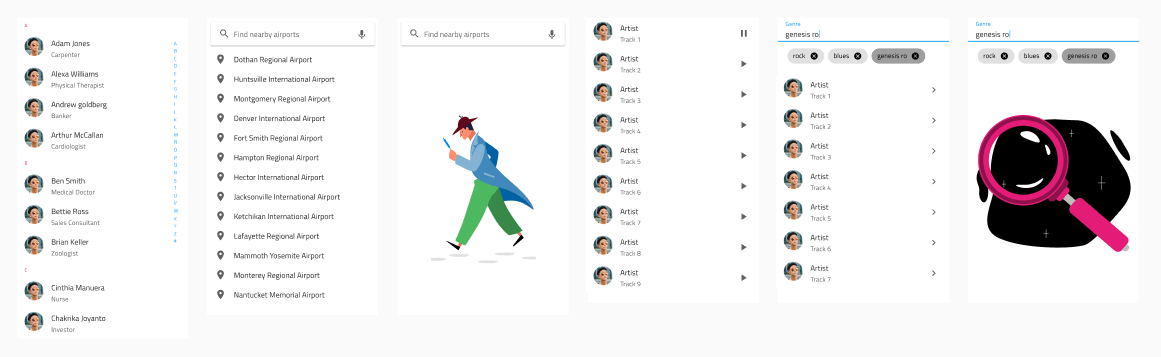
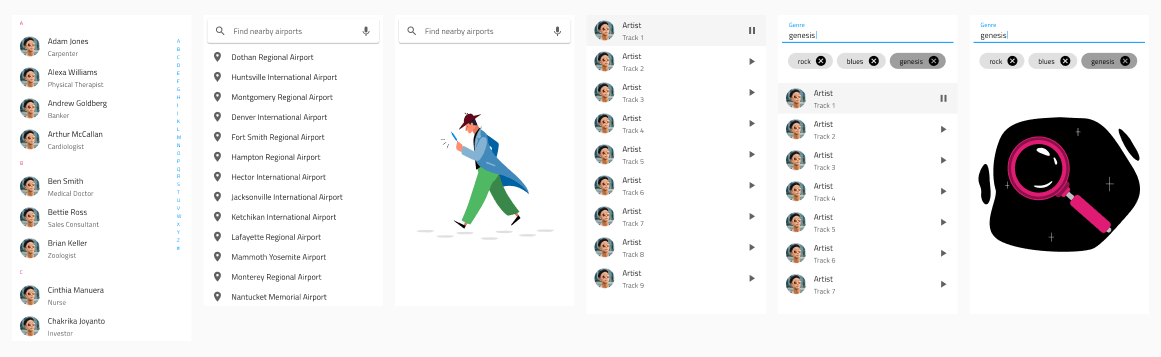
[35781] Patterns/Patterns Overview: Remove Sketch and Adobe XD reference and replace image

diff --git a/en/patterns/patterns-overview.md b/en/patterns/patterns-overview.md
@@ -1,36 +1,15 @@
 ---
 title: Patterns Overview - Design System Patterns
 _description: The Indigo Design System contains 180 Patterns built with the Indigo.Design Components.
-_keywords: Design Systems, Design Systems UX, UI kit, Sketch, Ignite UI for Angular, Sketch to Angular, Sketch to Angular, Angular, Angular Design System, Export code from Sketch, Design Kits for Angular, Sketch HTML, Sketch to HTML, Sketch UI kits, Figma, Figma to Angular, Export code from Figma, Figma HTML, Figma to HTML, Figma UI kits
+_keywords: Design Systems, Design Systems UX, UI kit, Ignite UI for Angular, Angular, Angular Design System, Design Kits for Angular, Figma, Figma to Angular, Export code from Figma, Figma HTML, Figma to HTML, Figma UI kits
 ---
 
 # Patterns Overview
 
-The **Indigo.Design System** boosts your productivity with 180+ UI Patterns assembled from Indigo.Design Components. They are enhanced with the same responsive web design behavior and theming capabilities. The UI Patterns can be found spread across separate pages of the library in Figma and Sketch, while in Adobe XD they are arranged as a column at the right end of the library file:
-
-- 🌆 AV Player
-- 🌆 Avatar + Badge
-- 🌆 Cards
-- 🌆 Chat
-- 🌆 Data Visualizations
-- 🌆 Details
-- 🌆 Dialogs
-- 🌆 Empty States
-- 🌆 File Upload and Image Manipulation
-- 🌆 Footer
-- 🌆 Form
-- 🌆 Grids
-- 🌆 Lists
-- 🌆 Menus
-- 🌆 Onboarding
-- 🌆 Pricing Table
-- 🌆 Scheduling
-- 🌆 Social Feed
-- 🌆 Tiles
-- 🌆 User Profile
+The **Indigo.Design System** boosts your productivity with 180+ UI Patterns assembled from Indigo.Design Components. They are enhanced with the same responsive web design behavior and theming capabilities. The UI Patterns can be found spread across separate pages of the library in Figma.
 
 > [!WARNING]
-> Unlike a component, some patterns in the Figma and the Sketch libraries can be detached to show as a group, preserving the look and feel you have defined before that. However, in Adobe XD ungrouping a pattern has devastating implications on the ability to generate code from the resulting layout as it turns all nested components into groups and prevents us from tracing their structure correctly. You can make any state, layout, and styling adjustment in Adobe XD without ungrouping a pattern so we kindly advise you to keep the entirety of these patterns on your artboards. Also bear in mind that in Figma, Sketch and Adobe XD, unlinking a pattern from the library makes it impossible to apply updates from subsequent versions of the Design System automatically.
+>  Bear in mind that in Figma, unlinking a pattern from the library makes it impossible to apply updates from subsequent versions of the Design System automatically.
 
  Below is a snippet of some of the [list patterns](lists.md) such as a contacts list, searchable and filterable lists, and list empty states when no matching results are found.
 
